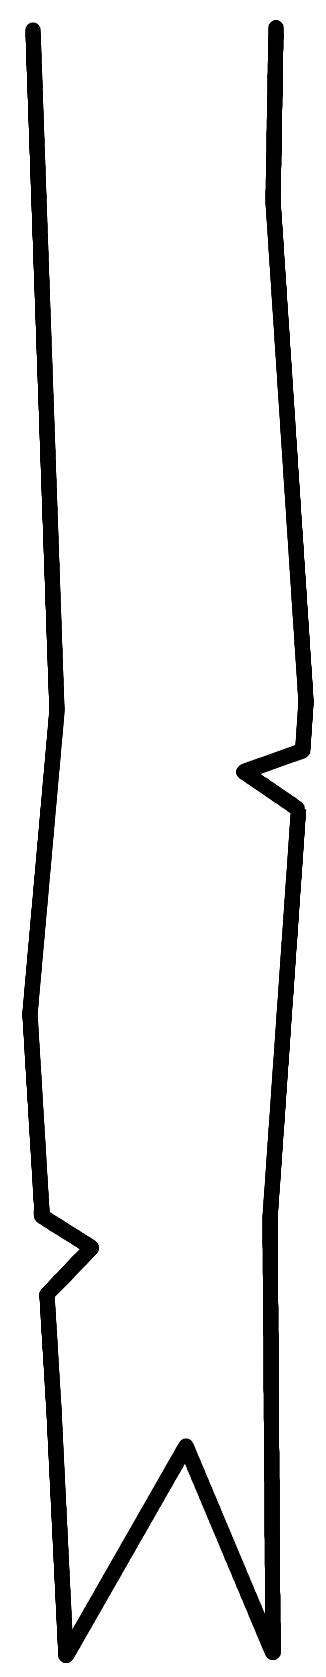
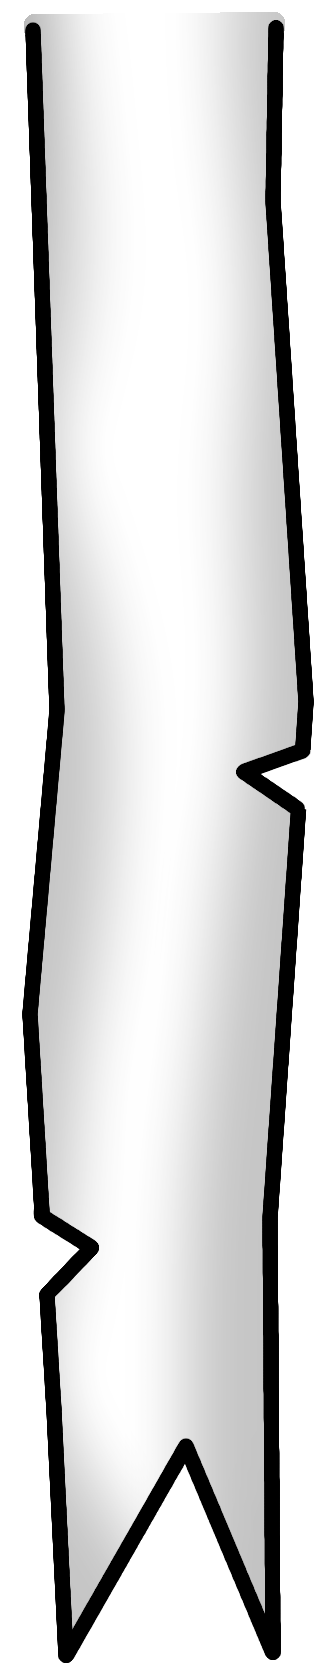
color the flag

diff --git a/card_generator.py b/card_generator.py
@@ -10,6 +10,52 @@ def color_hex_to_tuple(hex_color: str) -> tuple[int, int, int]:
     return tuple(int(hex_color[i : i + 2], 16) for i in (1, 3, 5))
 
 
+SUIT_COLOR_MAP = {
+    "Festival": "#DF6F6B",  # Example color for Festival
+}
+
+
+def recolor(image: Image, black_target: str, white_target: str) -> Image:
+    """
+    Assuming the image is in grayscale mode ('L'), recolor it so that black maps to black_target
+    Keep the alpha channel if present
+    """
+    if isinstance(black_target, str) and black_target.startswith("#"):
+        black_target = color_hex_to_tuple(black_target)
+    if isinstance(white_target, str) and white_target.startswith("#"):
+        white_target = color_hex_to_tuple(white_target)
+
+    # Convert to RGBA mode to handle color pixels properly
+    if image.mode != "RGBA":
+        # First convert to LA if not already, then to RGBA
+        if image.mode != "LA":
+            image = image.convert("LA")
+        image = image.convert("RGBA")
+
+    # Get pixel data
+    pixels = image.load()
+    width, height = image.size
+
+    # Apply color mapping with interpolation
+    for x in range(width):
+        for y in range(height):
+            r, g, b, alpha = pixels[x, y]
+            gray_value = (r + g + b) // 3  # Convert RGB to grayscale
+
+            # Interpolate between black_target and white_target based on gray_value
+            # gray_value ranges from 0 (black) to 255 (white)
+            t = gray_value / 255.0  # Normalize to 0-1 range
+
+            # Linear interpolation: result = black_target * (1-t) + white_target * t
+            new_r = int(black_target[0] * (1 - t) + white_target[0] * t)
+            new_g = int(black_target[1] * (1 - t) + white_target[1] * t)
+            new_b = int(black_target[2] * (1 - t) + white_target[2] * t)
+
+            pixels[x, y] = (new_r, new_g, new_b, alpha)
+
+    return image
+
+
 class CardGenerator:
     def __init__(
         self,
@@ -223,6 +269,10 @@ class CardGenerator:
 
         # Add vertical flag on the left side
         flag_img = Image.open("inputs/vertical_flag.png")
+        flag_img = recolor(
+            flag_img, black_target="#000000", white_target=SUIT_COLOR_MAP[card_suit]
+        )
+
         flag_width = 130
         flag_height = int(flag_img.height * (flag_width / flag_img.width) * 0.7)
         flag_img = flag_img.resize((flag_width, flag_height))
